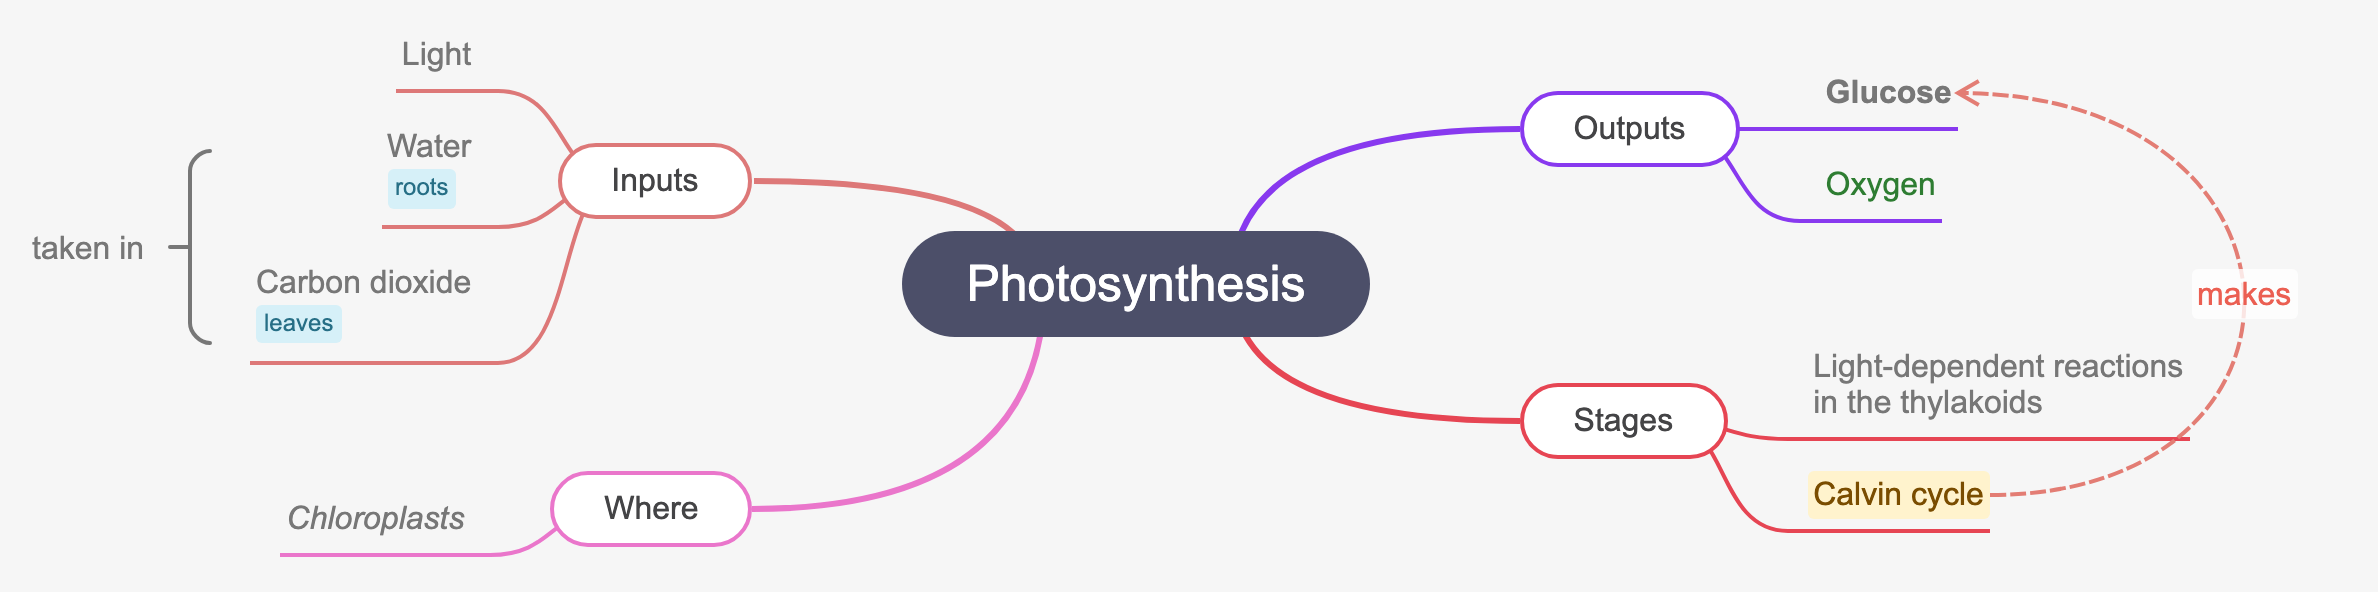
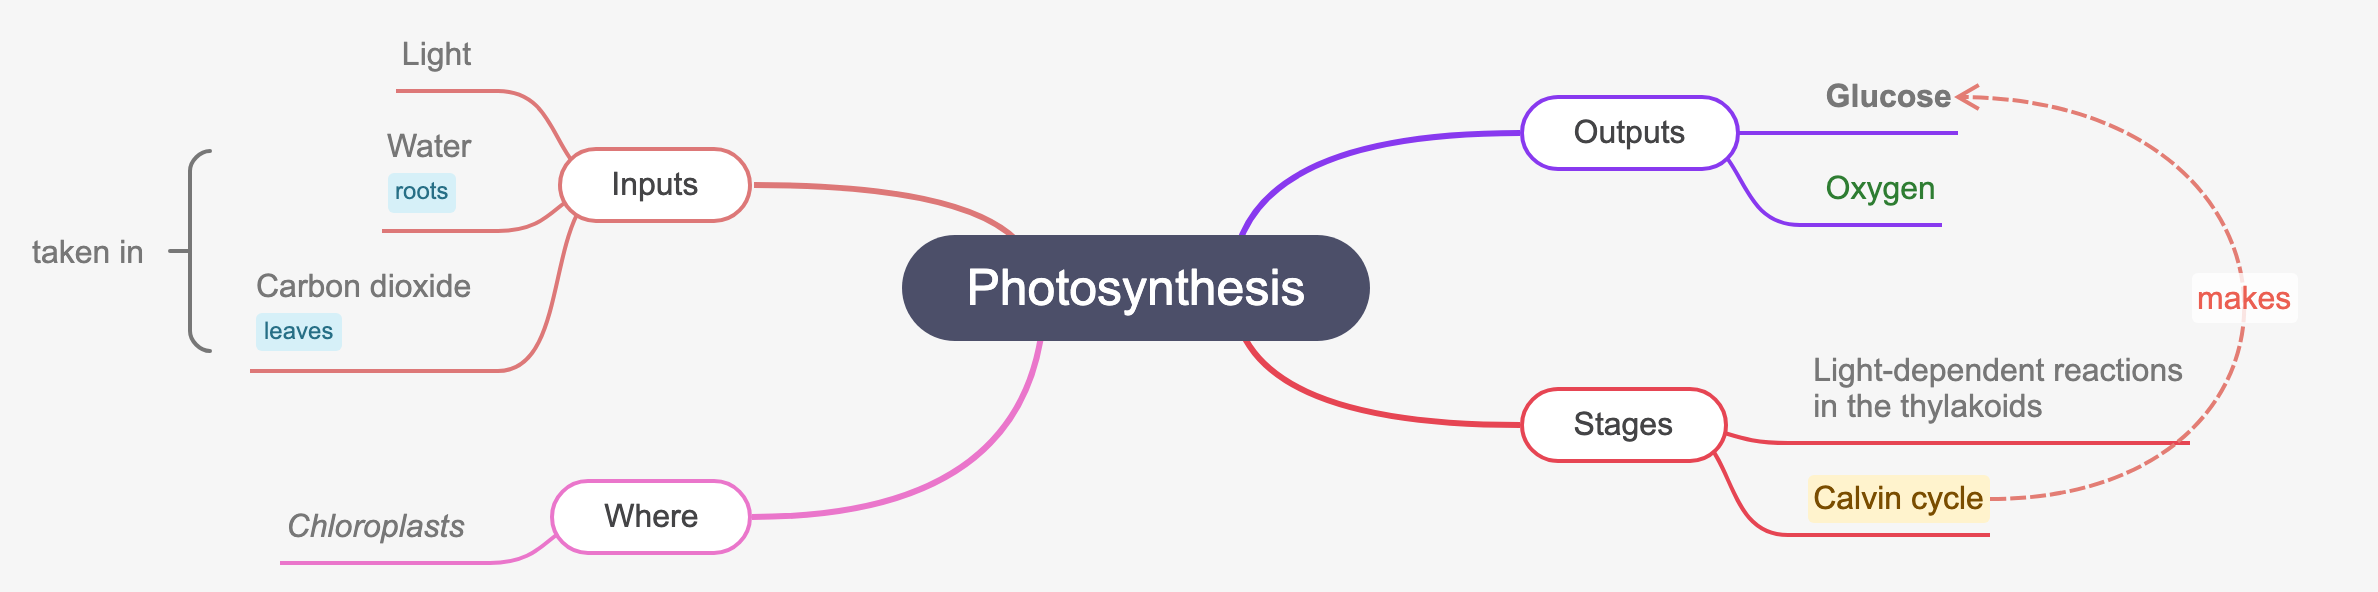
chore: release 0.3.0 (support Mind Elixir 6.0.0) (#10)

diff --git a/src/profile.ts b/src/profile.ts
@@ -4,7 +4,7 @@
  * The SVG writer (`src/svg`), validation (`src/data.ts`, `src/security.ts`) and the font tables
  * (`src/text`) do not follow a Mind Elixir version. Geometry does. Mind Elixir publishes no
  * geometry API: `layoutSSR` only assigns sides and emits HTML, so the lengths below are copied
- * from 5.15.1's stylesheet. The other copies are named here so a later release is a short list:
+ * from 6.0.0's stylesheet. The other copies are named here so a later release is a short list:
  *
  * - this file — lengths from `src/index.css`, and the compact gaps from `changeTheme`
  * - `src/theme.ts` — built-in themes and `changeTheme`'s merge (`type`, then `cssVar`, then compact)
@@ -18,10 +18,10 @@
  */
 
 /** The Mind Elixir release this layout was measured against. */
-export const SUPPORTED_MIND_ELIXIR_VERSION = "5.15.1";
+export const SUPPORTED_MIND_ELIXIR_VERSION = "6.0.0";
 
 /**
- * Lengths from Mind Elixir 5.15.1 `src/index.css`. Pixels, except `maxWidthEm`, `linkMarginEm`
+ * Lengths from Mind Elixir 6.0.0 `src/index.css`. Pixels, except `maxWidthEm`, `linkMarginEm`
  * and the two line heights, which are ems of the topic's font.
  */
 export const LAYOUT = Object.freeze({
@@ -51,9 +51,9 @@ export const LAYOUT = Object.freeze({
   tagMarginTop: 2,
   tagMarginRight: 4,
   mainMargin: 10,
-  /** `me-parent` padding-top and padding-bottom for a sub node (not top-down). */
+  /** `.me-parent` padding-top and padding-bottom for a sub node (not top-down). */
   subPadY: 6,
-  /** `me-root` margin-top and margin-bottom. */
+  /** `.me-root` margin-top and margin-bottom. */
   rootMarginY: 45,
 });
 

diff --git a/src/types.ts b/src/types.ts
@@ -81,9 +81,9 @@ export interface SvgExportOptions {
   textLength?: boolean;
   /**
    * Draw underline, overline and strike-through from a topic's `style.textDecoration`. Default
-   * false, as Mind Elixir 5.15.1 does not display them: the caption is an inline block, which
+   * false, as Mind Elixir does not display them: the caption is an inline block, which
    * the decoration of the topic does not reach. Turn it on when the page shows them, for example
-   * with `.map-container me-tpc > .text { text-decoration: inherit }`.
+   * with `.map-container .me-tpc > .text { text-decoration: inherit }`.
    */
   textDecoration?: boolean;
   /** `"preserve"` (default): node links become SVG links (http, https and mailto only). `"text"`: only the 🔗. */

diff --git a/tests/browser/layout.spec.ts b/tests/browser/layout.spec.ts
@@ -8,7 +8,7 @@ import { MEASURED_FIXTURES, withinTolerance } from "../tolerances.js";
 import { dataOf, editorTopics, openMap } from "./support.js";
 
 /**
- * Where the renderer puts each topic, from the data alone, against where Mind Elixir 5.15.1
+ * Where the renderer puts each topic, from the data alone, against where Mind Elixir 6.0.0
  * draws it in each browser (Arial). Text in Arial is reproduced exactly in Chromium and WebKit;
  * Firefox sets `line-height: normal` taller (19.5 px for 16 px Arial, not 18), and emoji or CJK
  * use the system's fallback fonts, so those are bounded, not exact. Measured values are in

diff --git a/tests/unit/layout.test.ts b/tests/unit/layout.test.ts
@@ -14,7 +14,7 @@ const lay = (data: object, direction?: number) => {
 };
 
 describe("layoutMap against Mind Elixir in Chromium", () => {
-  // tests/unit/reference.json: what Mind Elixir 5.15.1 draws in Chromium with Arial
+  // tests/unit/reference.json: what Mind Elixir 6.0.0 draws in Chromium with Arial
   // (scripts/record-reference.mjs). Text in Arial, so the layout should match it closely.
   // Recorded values have two decimals. Chromium rounds each text's width to 1/64 px its own way
   // (about 0.01 px per topic here), which adds up along the 27 levels of `deep`

diff --git a/tests/tolerances.ts b/tests/tolerances.ts
@@ -1,6 +1,6 @@
 /**
  * How far a topic may sit from Mind Elixir before a layout comparison fails.
- * The numbers are the measured bounds in docs/COMPATIBILITY.md (2026-10-18, Mind Elixir 5.15.1).
+ * The numbers are the measured bounds in docs/COMPATIBILITY.md (2026-11-09, Mind Elixir 6.0.0).
  * Firefox's vertical drift and the fallback-font estimates are known limitations: they are
  * bounded here, and a compatibility report lists them instead of calling them regressions.
  */

diff --git a/tests/unit/data.test.ts b/tests/unit/data.test.ts
@@ -208,7 +208,7 @@ describe("readMap", () => {
 
 describe("resolveTheme", () => {
   it("parses the default theme", () => {
-    expect(SUPPORTED_MIND_ELIXIR_VERSION).toBe("5.15.1");
+    expect(SUPPORTED_MIND_ELIXIR_VERSION).toBe("6.0.0");
     for (const name of THEME_VARS) expect(THEME.cssVar?.[name]).toEqual(expect.any(String));
     expect(resolveTheme(THEME)).toMatchObject({
       nodeGapX: 30,

diff --git a/src/connectors.ts b/src/connectors.ts
@@ -1,7 +1,7 @@
 import type { Box } from "./geometry.js";
 
 /**
- * Connector geometry, adapted from Mind Elixir 5.15.1 (src/utils/generateBranch.ts,
+ * Connector geometry, adapted from Mind Elixir 6.0.0 (src/utils/generateBranch.ts,
  * src/arrow.ts, src/summary.ts; MIT, (c) 2019 DjZhou), so lines, arrows and brackets have the
  * shapes the editor draws for the same boxes.
  */

diff --git a/src/theme.ts b/src/theme.ts
@@ -33,7 +33,7 @@ export const THEME_VARS = [
   "--map-padding",
 ] as const;
 
-// Mind Elixir 5.15.1's built-in themes (src/const.ts, MIT, (c) 2019 DjZhou)
+// Mind Elixir 6.0.0's built-in themes (unchanged since 5.15.1) (src/const.ts, MIT, (c) 2019 DjZhou)
 export const THEME: Theme = {
   name: "Latte",
   type: "light",

diff --git a/docs/COMPATIBILITY.md b/docs/COMPATIBILITY.md
@@ -1,7 +1,8 @@
 # Compatibility
 
-Measured on 2026-10-18 on macOS 26.4 (Apple Silicon), Node 26.12, Playwright 1.64.1, Mind Elixir
-5.15.1. `npm run compare-layout`, `npm run test:e2e` and `npm run bench` reproduce it.
+Measured on macOS 26.4 (Apple Silicon), Node 26.12: the layout table on 2026-11-09 with Playwright
+1.65.0 and Mind Elixir 6.0.0, the rest on 2026-10-18 with Playwright 1.64.1 and Mind Elixir 5.15.1.
+`npm run compare-layout`, `npm run test:e2e` and `npm run bench` reproduce it.
 
 ## Runtimes
 
@@ -12,20 +13,22 @@ Safari 14.1+, Firefox 125+). `downloadSvg` needs a browser.
 
 ## Mind Elixir
 
-The layout model follows **Mind Elixir 5.15.1** (its stylesheet, `layout.ts`, `linkDiv.ts`,
+The layout model follows **Mind Elixir 6.0.0** (its stylesheet, `layout.ts`, `linkDiv.ts`,
 `generateBranch.ts`, `arrow.ts`, `summary.ts`, `const.ts`, `changeTheme`). That version is
-`SUPPORTED_MIND_ELIXIR_VERSION`. Data from any 5.x version can be rendered; a version that
-changes those files may lay maps out differently from what is drawn here. Mind Elixir 6 is in
-pre-release. A compat report says whether a given release still matches; it does not promote
+`SUPPORTED_MIND_ELIXIR_VERSION`. Data from 5.x and 6.x can be rendered; a version that changes
+those files may lay maps out differently from what is drawn here. The only layout difference
+between 5.15.1 and 6.0.0 is top-down: 6.0.0 keeps the 10 px margin on main nodes (see the
+changelog), so top-down maps drawn by 5.x sit 10 px (main nodes) and 20 px (their children)
+higher than this package places them. A compat report says whether a given release still matches; it does not promote
 that release to supported.
 
 ### Checking another version
 
 ```sh
-npm run test:compat -- --mind-elixir-version 5.15.1
+npm run test:compat -- --mind-elixir-version 6.0.0
 npm run test:compat -- --mind-elixir-version latest
 npm run test:compat -- --mind-elixir-version next
-npm run test:compat -- --mind-elixir-version 5.15.1 --visual
+npm run test:compat -- --mind-elixir-version 6.0.0 --visual
 ```
 
 `latest` is the newest stable release (a version with no hyphen). npm's `latest` dist-tag may
@@ -48,21 +51,18 @@ drift against `docs/layout-deviation.json`, and the known limitations below. The
 baseline files. `npm run compare-layout` is what writes `docs/layout-deviation.json`, and only
 for the Mind Elixir version in `package.json`.
 
-| Status         | When                                                                                                                                           |
-| -------------- | ---------------------------------------------------------------------------------------------------------------------------------------------- |
-| `supported`    | The installed version is 5.15.1, geometry is inside the tolerances, and `--visual` did not fail. A visual failure on 5.15.1 is `incompatible`. |
-| `experimental` | A newer release that still fits, or any prerelease (including one that does not fit).                                                          |
-| `incompatible` | A stable release outside the geometry tolerances. The process exits 1 unless `--advisory` was passed.                                          |
+| Status         | When                                                                                                                                         |
+| -------------- | -------------------------------------------------------------------------------------------------------------------------------------------- |
+| `supported`    | The installed version is 6.0.0, geometry is inside the tolerances, and `--visual` did not fail. A visual failure on 6.0.0 is `incompatible`. |
+| `experimental` | A newer release that still fits, or any prerelease (including one that does not fit).                                                        |
+| `incompatible` | A stable release outside the geometry tolerances. The process exits 1 unless `--advisory` was passed.                                        |
 
 A passing subset does not make a version supported. Drift against the recorded macOS baseline is
 listed and does not by itself fail the run: CI uses Linux fonts, and the tolerances already
 cover that.
 
-Checked on 2026-10-19. `latest` resolves to 5.15.1, because npm's `latest` tag is
-`6.0.0-next.4`. `6.0.0-next.11` (`next`) is experimental: 28 of 30 geometry cases passed.
-Chromium and WebKit place the top-down fixture 20 px lower (y 20, recorded 0). Firefox shows
-that same 20 px on top of its line-height drift (y 22.33, recorded 2.33); Firefox `y` is not a
-failure. Side layouts on that prerelease still match. The supported baseline stays 5.15.1.
+Checked on 2026-11-09. `latest` resolves to 6.0.0: 30 of 30 geometry cases passed, and the
+visual spec passed. 6.0.0 is the supported baseline.
 
 GitHub Actions (`.github/workflows/compat.yml`) runs the stable check every Monday at 06:15 UTC
 and on `workflow_dispatch` (`mind_elixir_version`, default `latest`). The `next` prerelease is a
@@ -74,7 +74,7 @@ When a report shows a real layout change:
 
 1. Read the failing fixture and browser in the report.
 2. Diff that Mind Elixir's `src/index.css`, `generateBranch.ts`, `arrow.ts`, `summary.ts`,
-   `const.ts` and `changeTheme` against 5.15.1. The copies in this repo are named in
+   `const.ts` and `changeTheme` against 6.0.0. The copies in this repo are named in
    `src/profile.ts`.
 3. Change the matching length, the theme merge, or the connector formula. Add a unit test.
 4. Run `npm run compare-layout` and `npm run test:e2e` against the version you intend to support.
@@ -113,7 +113,7 @@ Every topic of the test maps, laid out from the data, against where Mind Elixir 
 | deep (27 levels)                        | 0.27 / 0 / 0.02 / 0        | the same                  | 0.06 / 0.35 / 0.01 / 1.52   |
 | large (311)                             | 0.02 / 0 / 0.02 / 0        | the same                  | 0.07 / 210.82 / 0.04 / 1.52 |
 | rich (13: accents, emoji, CJK)          | 4.52 / 4 / 4.5 / 8         | 4.73 / 4.22 / 4.72 / 8    | 3.63 / 11.82 / 3.59 / 6     |
-| features (6: link, icons, tags, image)  | 6.02 / 1.06 / 6.02 / 2.11  | 3.02 / 0.87 / 3.02 / 1.75 | 1.38 / 2.27 / 1.36 / 1.52   |
+| features (6: link, icons, tags, image)  | 6.02 / 0.06 / 6.02 / 0.11  | 3.02 / 0.13 / 3.02 / 0.25 | 1.38 / 2.27 / 1.36 / 2.86   |
 | unicode (8: CJK, Hebrew, Arabic, emoji) | 0.03 / 14 / 10.47 / 8      | 0.03 / 14 / 10.47 / 8     | 0 / 14.07 / 10.43 / 5       |
 
 Why the differences:

diff --git a/README.md b/README.md
@@ -13,7 +13,7 @@ const { svg, width, height, warnings } = await renderSvg(mind.getData());
 ```
 
 - **Mind Elixir's layout, computed.** Topic sizes, line breaks, gaps, branch curves, arrows and
-  summary brackets follow Mind Elixir 5.15.1's stylesheet and connector code, with Arial's
+  summary brackets follow Mind Elixir 6.0.0's stylesheet and connector code, with Arial's
   advance widths and kerning. For text in Arial the result is where Mind Elixir draws it in
   Chromium and WebKit, to a few hundredths of a pixel (measured below).
 - **Native SVG only.** Rects, paths, `<text>`/`<tspan>` and, for pictures in the map, `<image>`.
@@ -28,7 +28,7 @@ const { svg, width, height, warnings } = await renderSvg(mind.getData());
 The same map in Mind Elixir and as the SVG this package makes from its data
 (`npm run screenshots` regenerates them):
 
-| Mind Elixir 5.15.1 (Chromium screenshot)                    | `renderSvg(mind)`                             |
+| Mind Elixir 6.0.0 (Chromium screenshot)                     | `renderSvg(mind)`                             |
 | ----------------------------------------------------------- | --------------------------------------------- |
 | ![The map in the editor](docs/images/both-sides-editor.png) | ![The map as SVG](docs/images/both-sides.svg) |
 
@@ -66,7 +66,7 @@ npm install @erseco/mind-elixir-export-svg
 ```
 
 It has no dependencies. It reads Mind Elixir data structurally, so it needs no Mind Elixir
-package at runtime. The layout follows Mind Elixir 5.15.1
+package at runtime. The layout follows Mind Elixir 6.0.0
 (`SUPPORTED_MIND_ELIXIR_VERSION`).
 
 ## Use
@@ -154,12 +154,12 @@ Not drawn, with a warning: the content of custom HTML nodes (`dangerouslySetInne
 colours CSS can express but this cannot (gradients, `var()`).
 
 Underline, overline and strike-through from a topic's `style.textDecoration` are drawn only with
-`textDecoration: true`. Mind Elixir 5.15.1 does not display them (they do not reach the caption,
+`textDecoration: true`. Mind Elixir does not display them (they do not reach the caption,
 which is an inline block), so the default matches the editor. Turn the option on when the page
 shows them, for example with:
 
 ```css
-.map-container me-tpc > .text {
+.map-container .me-tpc > .text {
   text-decoration: inherit;
 }
 ```
@@ -210,7 +210,7 @@ npm run check           # format, types, unit tests (100% coverage), build
 npm run test:e2e        # against real Mind Elixir in Chromium, Firefox and WebKit
 npm run test:package    # pack, install in an empty project, render from it in Node
 npm run compare-layout  # docs/layout-deviation.json, for the pinned Mind Elixir
-npm run test:compat -- --mind-elixir-version 5.15.1   # or latest, or next
+npm run test:compat -- --mind-elixir-version 6.0.0    # or latest, or next
 npm run bench           # docs/benchmarks.json
 npm run demo            # http://127.0.0.1:5173: the editor next to its export
 ```

diff --git a/CONTRIBUTING.md b/CONTRIBUTING.md
@@ -12,15 +12,15 @@ npx playwright install chromium firefox webkit
 
 ## Checks
 
-| Command                                               | What it does                                                                   |
-| ----------------------------------------------------- | ------------------------------------------------------------------------------ |
-| `npm run check`                                       | Formatting, types, unit tests with 100% coverage of the DOM-free code, build   |
-| `npm run test:e2e`                                    | Measures the layout against real Mind Elixir in Chromium, Firefox and WebKit   |
-| `npm run test:package`                                | Packs the library, installs it in an empty project, renders from it in Node    |
-| `npm run compare-layout`                              | Writes the layout's deviation from Mind Elixir to `docs/layout-deviation.json` |
-| `npm run test:compat -- --mind-elixir-version 5.15.1` | Compares a Mind Elixir version; see docs/COMPATIBILITY.md                      |
-| `npm run bench`                                       | Measures sizes and timings into `docs/benchmarks.json`                         |
-| `npm run demo`                                        | Serves the demo (editor and export side by side) on http://127.0.0.1:5173      |
+| Command                                              | What it does                                                                   |
+| ---------------------------------------------------- | ------------------------------------------------------------------------------ |
+| `npm run check`                                      | Formatting, types, unit tests with 100% coverage of the DOM-free code, build   |
+| `npm run test:e2e`                                   | Measures the layout against real Mind Elixir in Chromium, Firefox and WebKit   |
+| `npm run test:package`                               | Packs the library, installs it in an empty project, renders from it in Node    |
+| `npm run compare-layout`                             | Writes the layout's deviation from Mind Elixir to `docs/layout-deviation.json` |
+| `npm run test:compat -- --mind-elixir-version 6.0.0` | Compares a Mind Elixir version; see docs/COMPATIBILITY.md                      |
+| `npm run bench`                                      | Measures sizes and timings into `docs/benchmarks.json`                         |
+| `npm run demo`                                       | Serves the demo (editor and export side by side) on http://127.0.0.1:5173      |
 
 The layout follows Mind Elixir's stylesheet: a change to it starts with the value in Mind
 Elixir's source, and `npm run compare-layout` shows its effect in each browser.

diff --git a/docs/ARCHITECTURE.md b/docs/ARCHITECTURE.md
@@ -51,11 +51,11 @@ Another font: pass `measureText` (`width(text, font)` and `vertical`).
 
 ## The layout model
 
-`src/layout.ts` reproduces Mind Elixir 5.15.1's `index.css` for its DOM
-(`me-nodes > me-main / me-root > me-wrapper > me-parent > me-tpc`, `me-children`). The pixel
+`src/layout.ts` reproduces Mind Elixir 6.0.0's `index.css` for its DOM
+(`.me-nodes > .me-main / .me-root > .me-wrapper > .me-parent > .me-tpc`, `.me-children`). The pixel
 lengths are `LAYOUT` in `src/profile.ts`:
 
-- **Topics** (`me-tpc`, border-box, `max-width: 35em`, `white-space: pre-wrap`). Root: 25 px,
+- **Topics** (`.me-tpc`, border-box, `max-width: 35em`, `white-space: pre-wrap`). Root: 25 px,
   padding 10/30, 2 px border; main: padding 8/25, 2 px border in the branch colour; sub: padding
   `--topic-padding`; top-down subs: padding 6/12, 1 px border. Contents in order: the image
   (block, `margin-bottom: 8px`), a line of inline boxes (the caption's `span.text` inline block,
